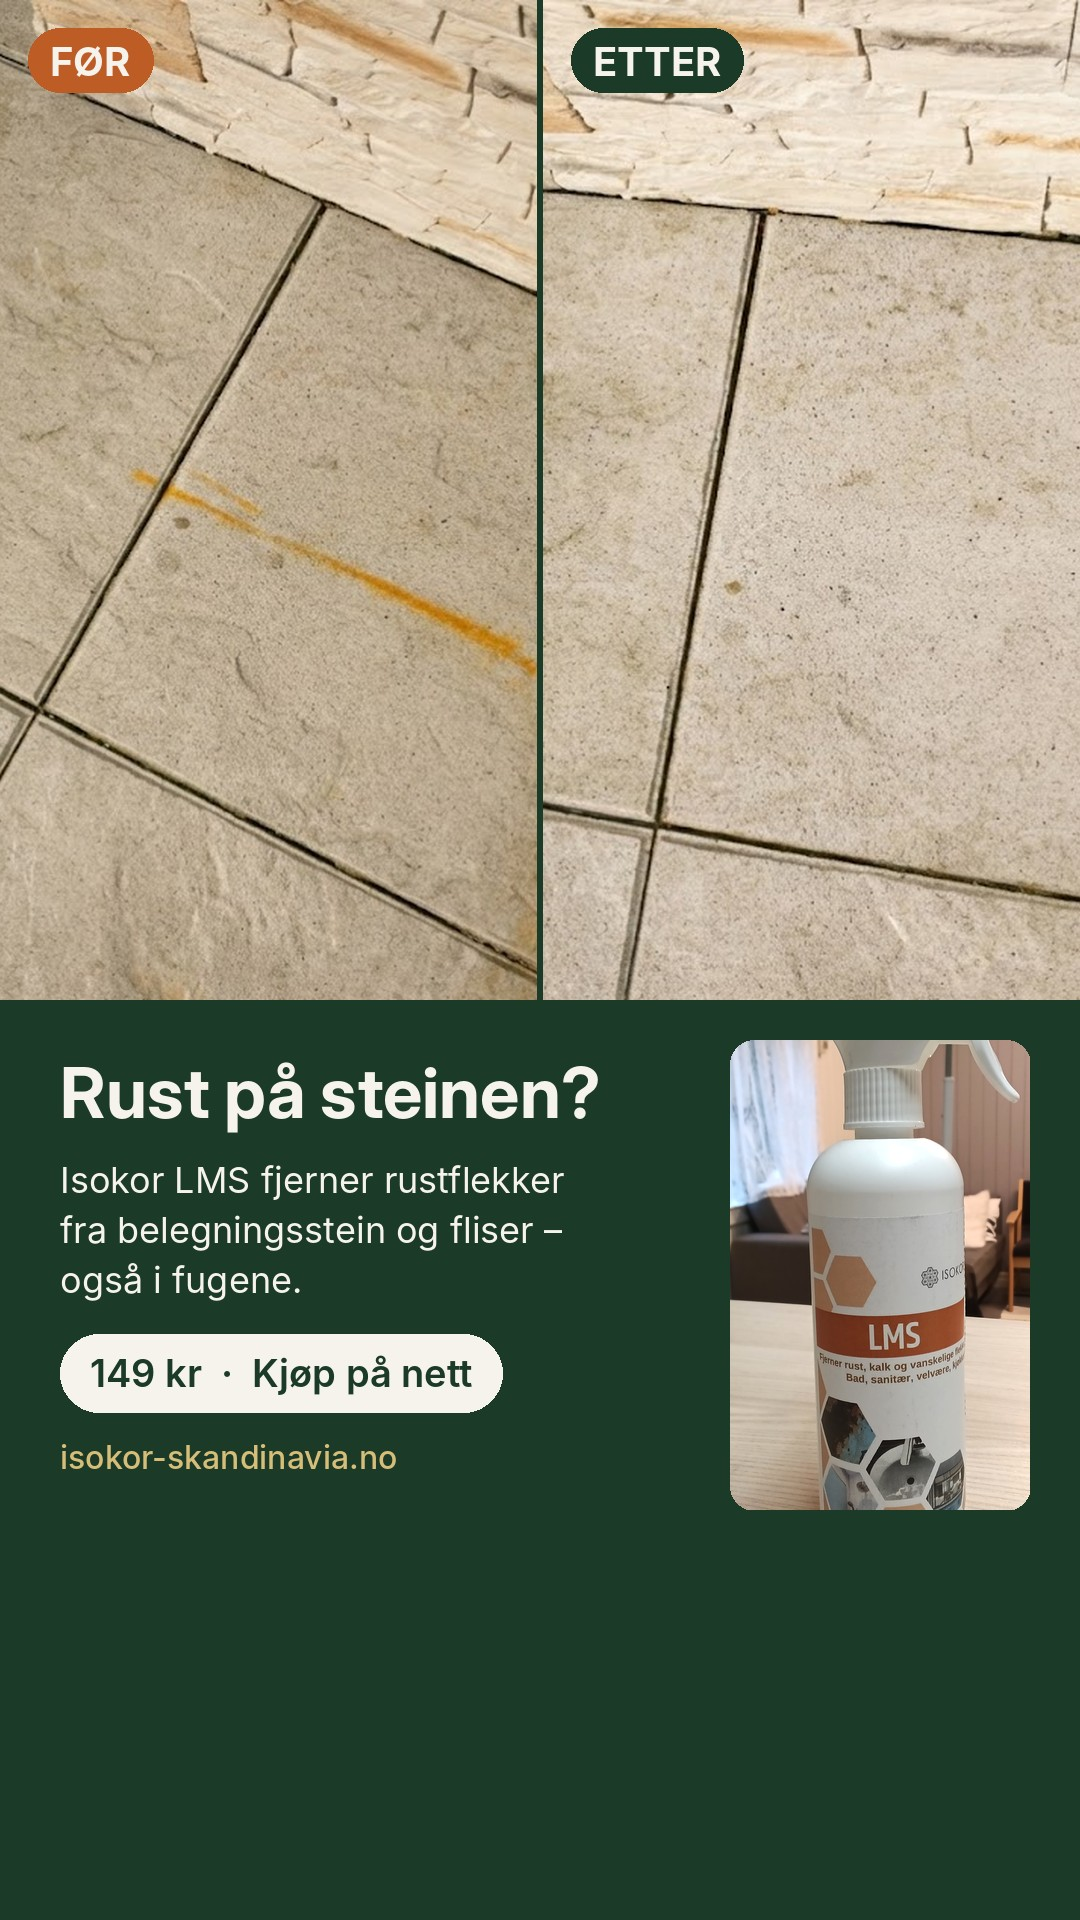
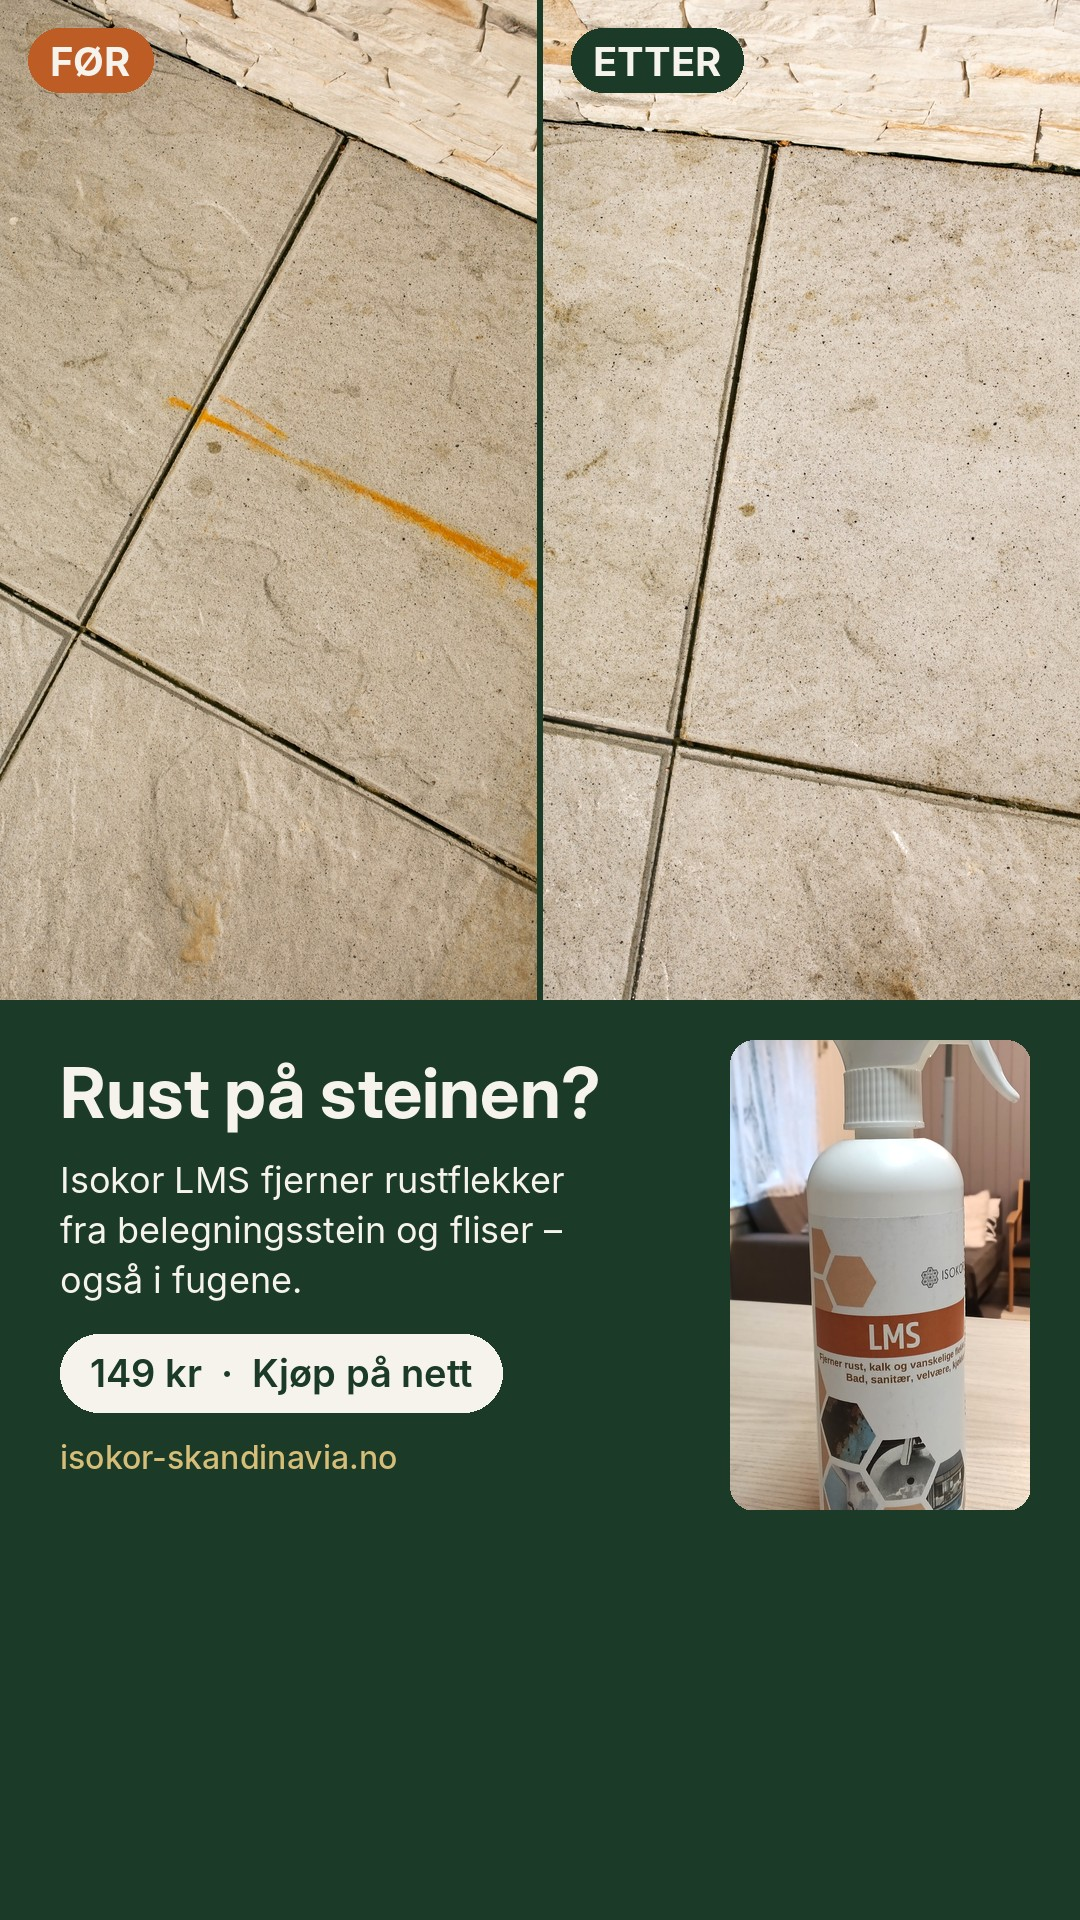
Reklamy LMS dlažba zo skutočných samostatných fotiek (pred/po + 3 kroky)
Claude-Session: https://claude.ai/code/session_01A4eGvUe2ZcNBHqtDXNE7vB

Changed region(s): [[0.0, 0.0, 1.0, 0.5312]]

diff --git a/02_PRACA/grafika/lms/reklama_lms_dlazba.py b/02_PRACA/grafika/lms/reklama_lms_dlazba.py
@@ -1,11 +1,11 @@
-"""Reklama Isokor LMS — dlažba pred/po + fľaša. 1080×1350 (feed) a 1080×1920 (Stories).
-Zdroj: Lukove 2 skutočné fotky spojené v Gemini do jedného obrázka (1024×718);
-rozdelí sa na polovice a spodok sa oreže, aby zmizol znak ✦ v rohu.
-Použitie: python3 reklama_lms_dlazba.py <dlazba_pred_po.jpg> <flasa.jpg> <výstupný_priečinok>"""
+"""Reklamy Isokor LMS — dlažba (Lukove skutočné fotky, 29. 10. 2026).
+1) pred/po:   lms_dlazba_pred_po_1080x1350.jpg + _1080x1920.jpg
+2) 3 kroky:   lms_dlazba_kroky_1080x1350.jpg + _1080x1920.jpg  (Før · Spray på · Etter)
+Použitie: python3 reklama_lms_dlazba.py <pred.jpg> <nastrek.jpg> <po.jpg> <flasa.jpg> <výstupný_priečinok>"""
 import os, sys
 from PIL import Image, ImageDraw, ImageFont, ImageOps, ImageEnhance
 
-SRC, FLASA, OUT = sys.argv[1:4]
+PRED, NASTREK, PO, FLASA, OUT = sys.argv[1:6]
 F = '/usr/share/fonts/opentype/inter/'
 GREEN = (28, 58, 40); CREAM = (246, 243, 236); RUST = (190, 92, 38); ACC = (214, 190, 120)
 
@@ -22,26 +22,14 @@ def fit(img, w, h, cx=0.5, cy=0.5):
     return im.crop((x, y, x + w, y + h))
 
 
-def label(d, x, y, text, fill):
-    ft = f('Inter-Bold.otf', 40)
+def label(d, x, y, text, fill, size=40):
+    ft = f('Inter-Bold.otf', size)
     w = d.textlength(text, font=ft)
-    d.rounded_rectangle((x, y, x + w + 44, y + 64), radius=32, fill=fill)
-    d.text((x + 22, y + 9), text, font=ft, fill=CREAM)
+    d.rounded_rectangle((x, y, x + w + size * 1.1, y + size * 1.6), radius=size * 0.8, fill=fill)
+    d.text((x + size * 0.55, y + size * 0.22), text, font=ft, fill=CREAM)
 
 
-src = Image.open(SRC).convert('RGB')
-PRED = src.crop((0, 0, 505, 660))      # ľavá polovica
-PO = src.crop((519, 0, 1024, 660))     # pravá polovica, bez spodku so znakom ✦
-
-
-def make(W, H, PH, path):
-    can = Image.new('RGB', (W, H), GREEN)
-    half = W // 2
-    can.paste(fit(PRED, half - 3, PH, 0.6, 0.5), (0, 0))
-    can.paste(fit(PO, half - 3, PH, 0.4, 0.5), (half + 3, 0))
-    d = ImageDraw.Draw(can)
-    label(d, 28, 28, "FØR", RUST)
-    label(d, half + 31, 28, "ETTER", GREEN)
+def bottom(can, d, W, PH, headline, lines):
     fs = ImageOps.exif_transpose(Image.open(FLASA))
     W0, H0 = fs.size
     fs = fs.crop((int(W0 * 0.18), int(H0 * 0.10), int(W0 * 0.78), int(H0 * 0.97)))
@@ -49,8 +37,8 @@ def make(W, H, PH, path):
     mask = Image.new('L', fl.size, 0); ImageDraw.Draw(mask).rounded_rectangle((0, 0, *fl.size), radius=24, fill=255)
     can.paste(fl, (W - 350, PH + 40), mask)
     x, y = 60, PH + 50
-    d.text((x, y), "Rust på steinen?", font=f('InterDisplay-Bold.otf', 70), fill=CREAM); y += 108
-    for line in ["Isokor LMS fjerner rustflekker", "fra belegningsstein og fliser –", "også i fugene."]:
+    d.text((x, y), headline, font=f('InterDisplay-Bold.otf', 70), fill=CREAM); y += 108
+    for line in lines:
         d.text((x, y), line, font=f('Inter-Regular.otf', 36), fill=CREAM); y += 50
     y += 26
     t = "149 kr  ·  Kjøp på nett"
@@ -58,10 +46,38 @@ def make(W, H, PH, path):
     d.rounded_rectangle((x, y, x + bw + 60, y + 78), radius=39, fill=CREAM)
     d.text((x + 30, y + 16), t, font=c, fill=GREEN); y += 104
     d.text((x, y), "isokor-skandinavia.no", font=f('Inter-Medium.otf', 32), fill=ACC)
+
+
+TEXT = ["Isokor LMS fjerner rustflekker", "fra belegningsstein og fliser –", "også i fugene."]
+
+
+def pred_po(W, H, PH, path):
+    can = Image.new('RGB', (W, H), GREEN); half = W // 2
+    can.paste(fit(Image.open(PRED), half - 3, PH, 0.45, 0.55), (0, 0))
+    can.paste(fit(Image.open(PO), half - 3, PH, 0.35, 0.45), (half + 3, 0))
+    d = ImageDraw.Draw(can)
+    label(d, 28, 28, "FØR", RUST); label(d, half + 31, 28, "ETTER", GREEN)
+    bottom(can, d, W, PH, "Rust på steinen?", TEXT)
+    can.save(path, quality=90, optimize=True, progressive=True)
+
+
+def kroky(W, H, PH, path):
+    can = Image.new('RGB', (W, H), GREEN); cw = (W - 12) // 3
+    for i, (src, cx, cy, txt, col) in enumerate([
+            (PRED, 0.45, 0.55, "1  FØR", RUST),
+            (NASTREK, 0.45, 0.6, "2  SPRAY", GREEN),
+            (PO, 0.35, 0.45, "3  ETTER", GREEN)]):
+        x0 = i * (cw + 6)
+        can.paste(fit(Image.open(src), cw, PH, cx, cy), (x0, 0))
+        label(ImageDraw.Draw(can), x0 + 18, 22, txt, col, 30)
+    d = ImageDraw.Draw(can)
+    bottom(can, d, W, PH, "Rust på steinen?", TEXT)
     can.save(path, quality=90, optimize=True, progressive=True)
 
 
 os.makedirs(OUT, exist_ok=True)
-make(1080, 1350, 700, os.path.join(OUT, 'lms_dlazba_pred_po_1080x1350.jpg'))
-make(1080, 1920, 1000, os.path.join(OUT, 'lms_dlazba_pred_po_1080x1920.jpg'))
+pred_po(1080, 1350, 700, os.path.join(OUT, 'lms_dlazba_pred_po_1080x1350.jpg'))
+pred_po(1080, 1920, 1000, os.path.join(OUT, 'lms_dlazba_pred_po_1080x1920.jpg'))
+kroky(1080, 1350, 700, os.path.join(OUT, 'lms_dlazba_kroky_1080x1350.jpg'))
+kroky(1080, 1920, 1000, os.path.join(OUT, 'lms_dlazba_kroky_1080x1920.jpg'))
 print('ok')

diff --git a/02_PRACA/KAMPAN_RUST_AGDER_2026-11.md b/02_PRACA/KAMPAN_RUST_AGDER_2026-11.md
@@ -105,3 +105,4 @@ med vann. Test alltid først på et skjult sted.
 - ⚠ **Dlažba „po“ má v pravom dolnom rohu znak ✦ (Google Gemini)** → pravdepodobne upravené AI. Upravenú fotku „po“ ako skutočný výsledok nepoužiť (klamlivá reklama + pravidlá Meta). Čaká na Lukovo potvrdenie / skutočnú fotku.
 - WC pred/po: rovnaká miestnosť (hadica, dvierka „Hlavní uzávěr vody“), ale **iné veko** (po: s detskou vložkou) — skontrolovať, či je to tá istá misa.
 - Dlažba: Lukovi sa nedarilo nahrať originály → použitý spojený obrázok, rozdelený na pred/po a spodok orezaný (znak ✦ preč). Hotové: `02_PRACA/grafika/lms/lms_dlazba_pred_po_1080x1350.jpg` + `…_1080x1920.jpg`, skript `reklama_lms_dlazba.py`.
+- 29. 10. neskôr: Luk poslal **4 samostatné skutočné fotky** dlažby (pred, nástrek, pôsobí, po) → `fotky/dlazba_1…4_*.jpg` (orezané z rozhrania galérie). Reklamy prerobené z originálov: pred/po + **3 kroky (Før · Spray · Etter)**, 1080×1350 a 1080×1920. Spojený obrázok z Gemini (`dlazba_pred_po.jpg`) sa už nepoužíva.

diff --git a/06_DENNIK/2026-10.md b/06_DENNIK/2026-10.md
@@ -162,3 +162,4 @@
 - Kampaň Rust: od Luka fotky (fľaša, WC, dlažba); hotová reklama LMS pred/po WC 1080×1350 + 1080×1920. Dlažba „po“ so znakom Gemini → čaká na potvrdenie.
 - Reklama LMS: upozornenie (rukavice/test) vypustené podľa Luka; dlažba = 2 skutočné fotky spojené v Gemini, Luk pošle originály.
 - Reklama LMS dlažba pred/po (znak Gemini orezaný) 1080×1350 + 1080×1920.
+- Reklamy LMS dlažba prerobené zo 4 samostatných skutočných fotiek (pred/po + 3 kroky).
